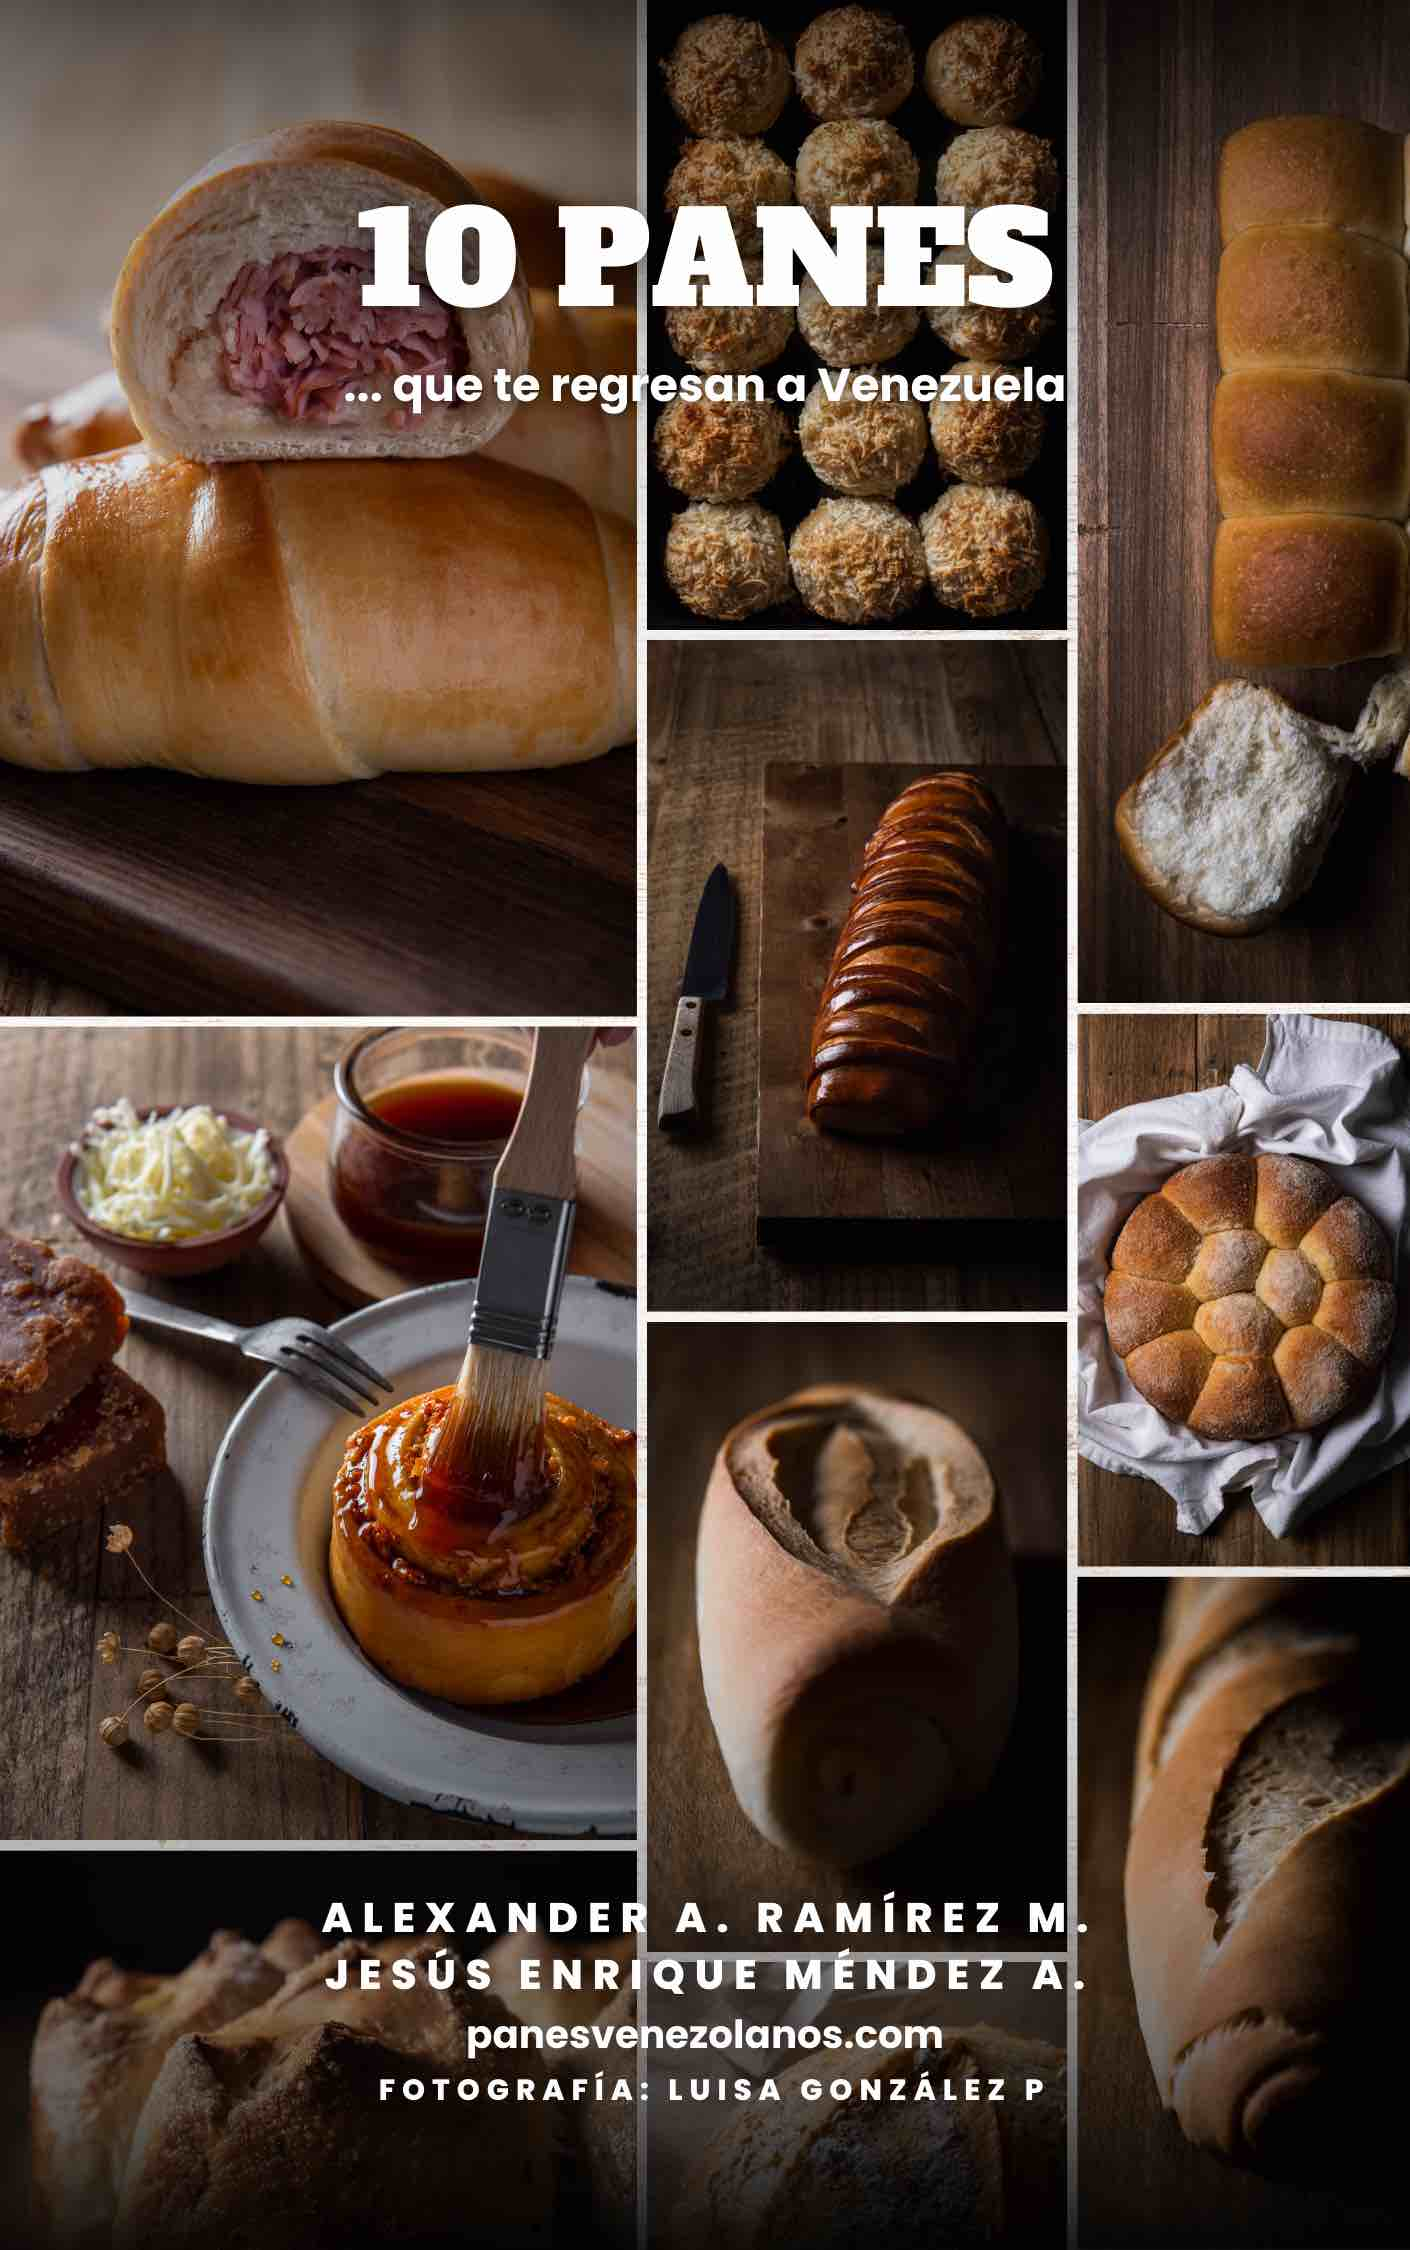
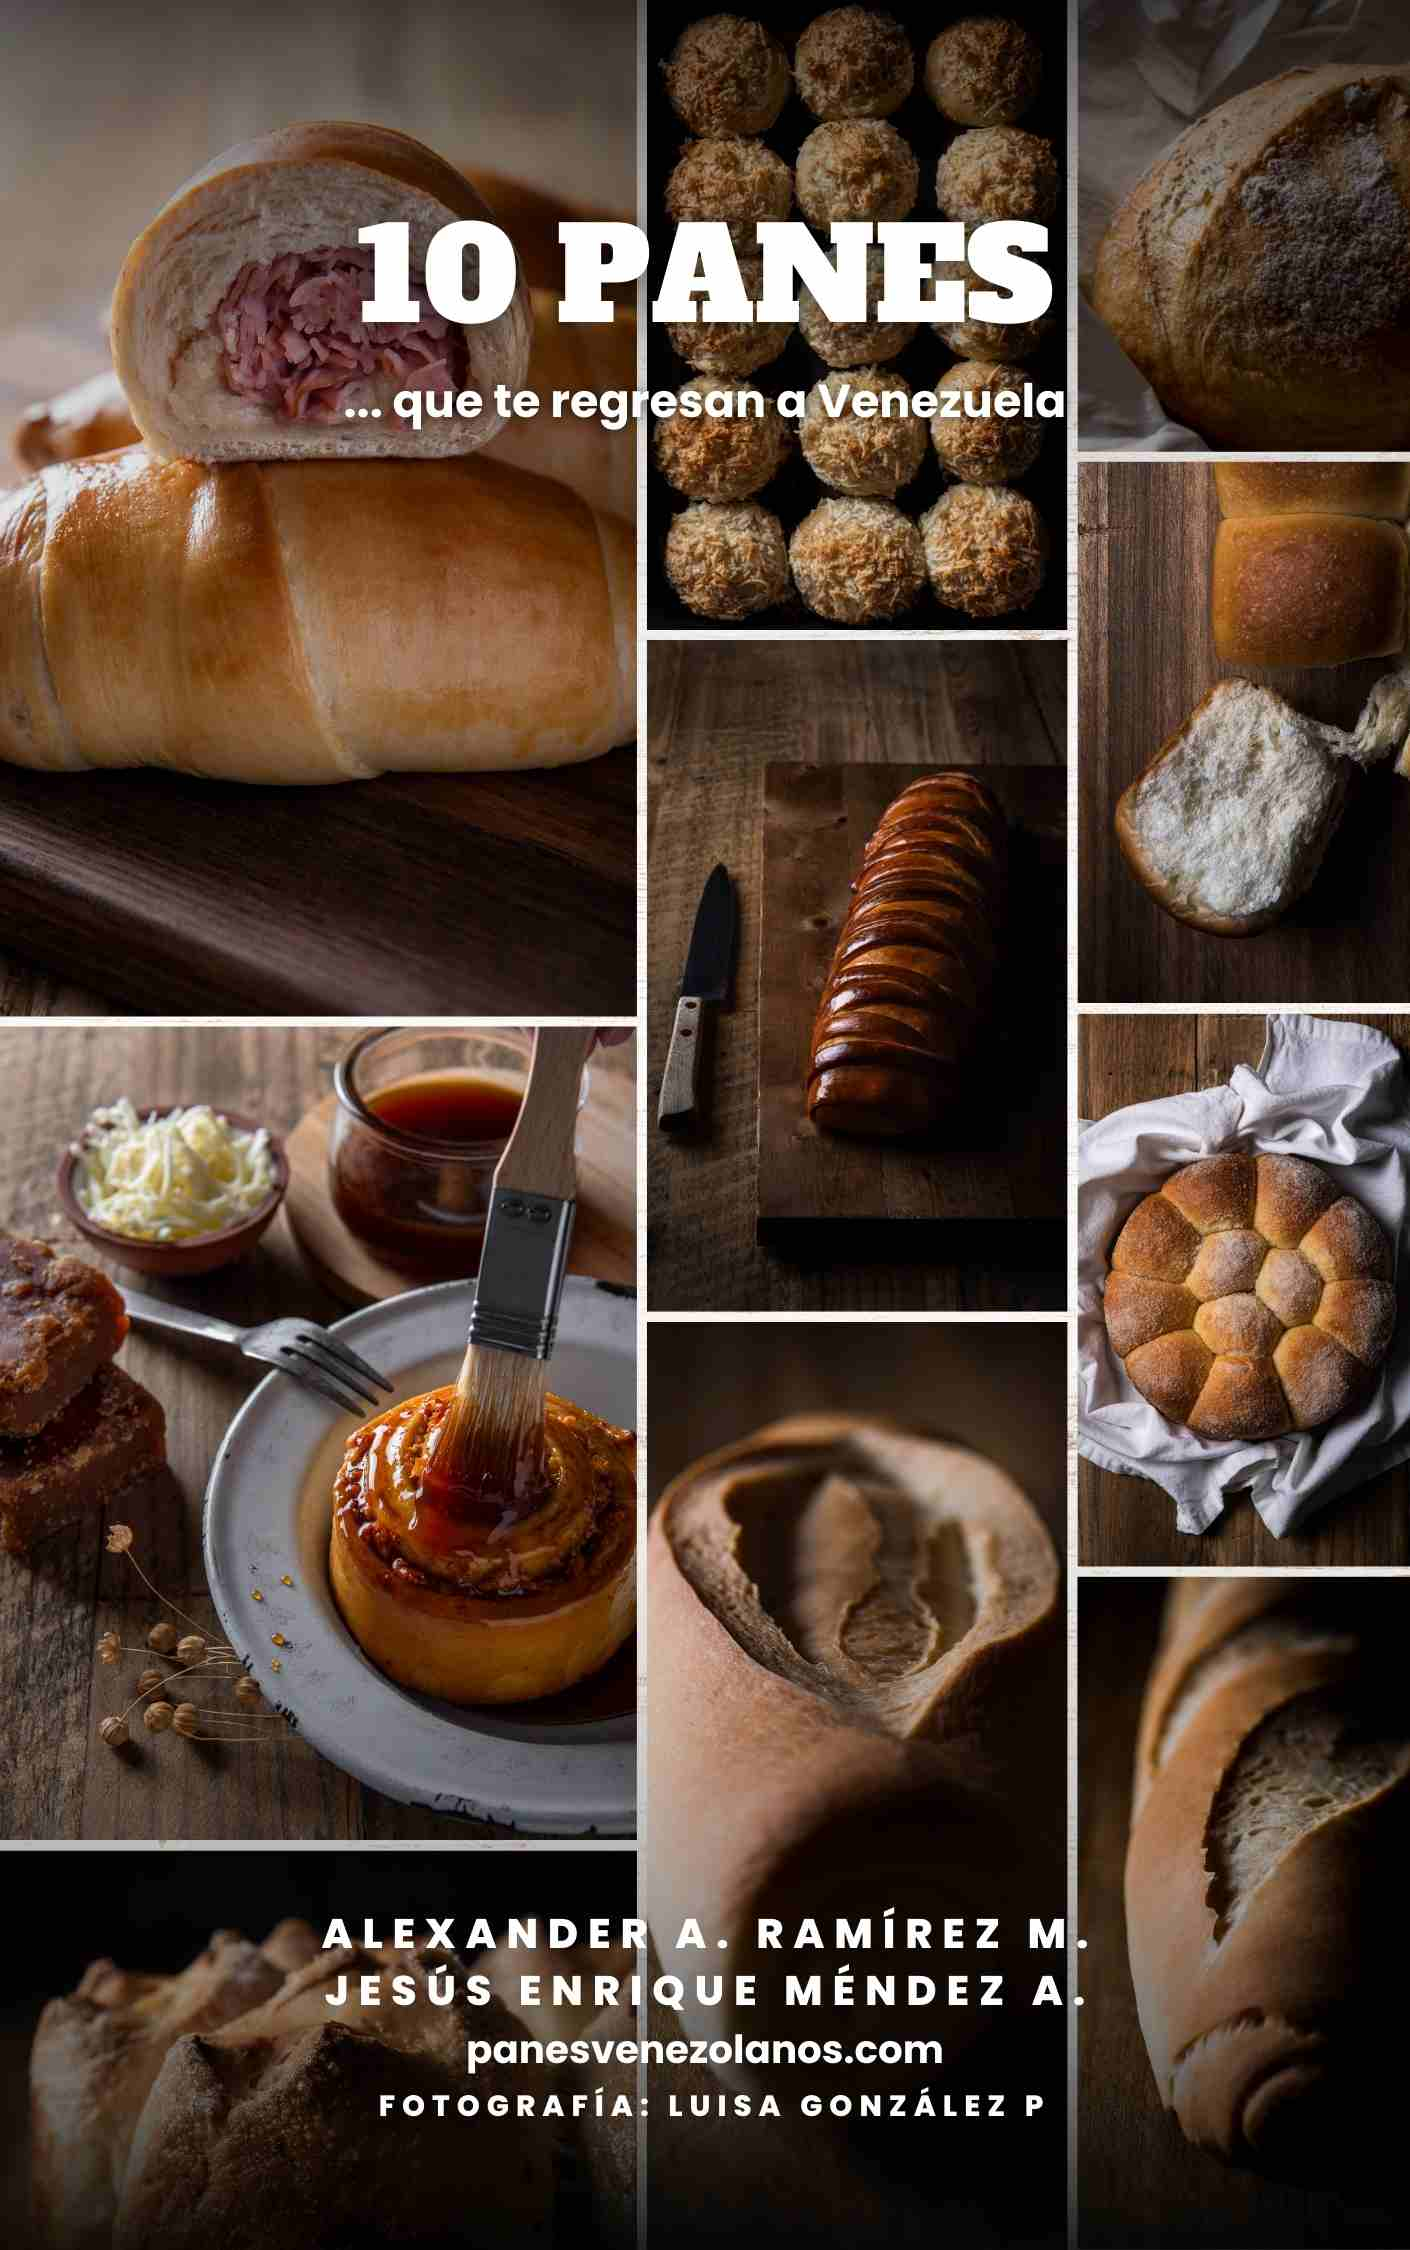
10 PANES

Changed region(s): [[0.2184, 0.5911, 0.7801, 0.9956], [0.2496, 0.0, 1.0, 0.2178], [0.2496, 0.6222, 0.3121, 0.6844]]

diff --git a/_layouts/libros.html b/_layouts/libros.html
@@ -124,13 +124,13 @@
     }
 
     .container-fluid {
-      background: #f5e6cc;
+      background: #ffe6cc;
       color: white;
       padding: 50px 0;
     }
 
     .wbackground {
-      background: #f5e6cc;
+      background: #ffe6cc;
       color: white;
       padding: 50px 0;
     }
@@ -169,7 +169,9 @@
     <div class="row g-4">
       <div class="col-md-6">
         <div class="card h-100">
+          <a href="/libros/haz-panes-venezolanos-en-casa/" target="_blank">
           <img src="/images/libro/libro_cover.jpg" class="card-img-top mx-auto" alt="Portada del libro HAZ Panes Venezolanos EN CASA">
+          </a>
           <div class="card-body">
             <h5 class="card-title">La referencia más completa</h5>
             <p class="card-text">El libro contendrá más de sesenta recetas y
@@ -180,7 +182,9 @@
       </div>
       <div class="col-md-6">
         <div class="card h-100">
+          <a href="/libros/10-PANES/" target="_blank">
           <img src="/images/libro/10-PANES/10-Panes.jpg" class="card-img-top mx-auto" alt="Portada del libro 10 PANES">
+          </a>
           <div class="card-body">
             <h5 class="card-title">Tu introducción a la Panadería Venezolana</h5>
             <p class="card-text">Este libro está diseñado para que te inicies en la Panadería Venezolana con 10 PANES...que te regresan a Venezuela. ¡Las recetas funcionan en casa!</p>
